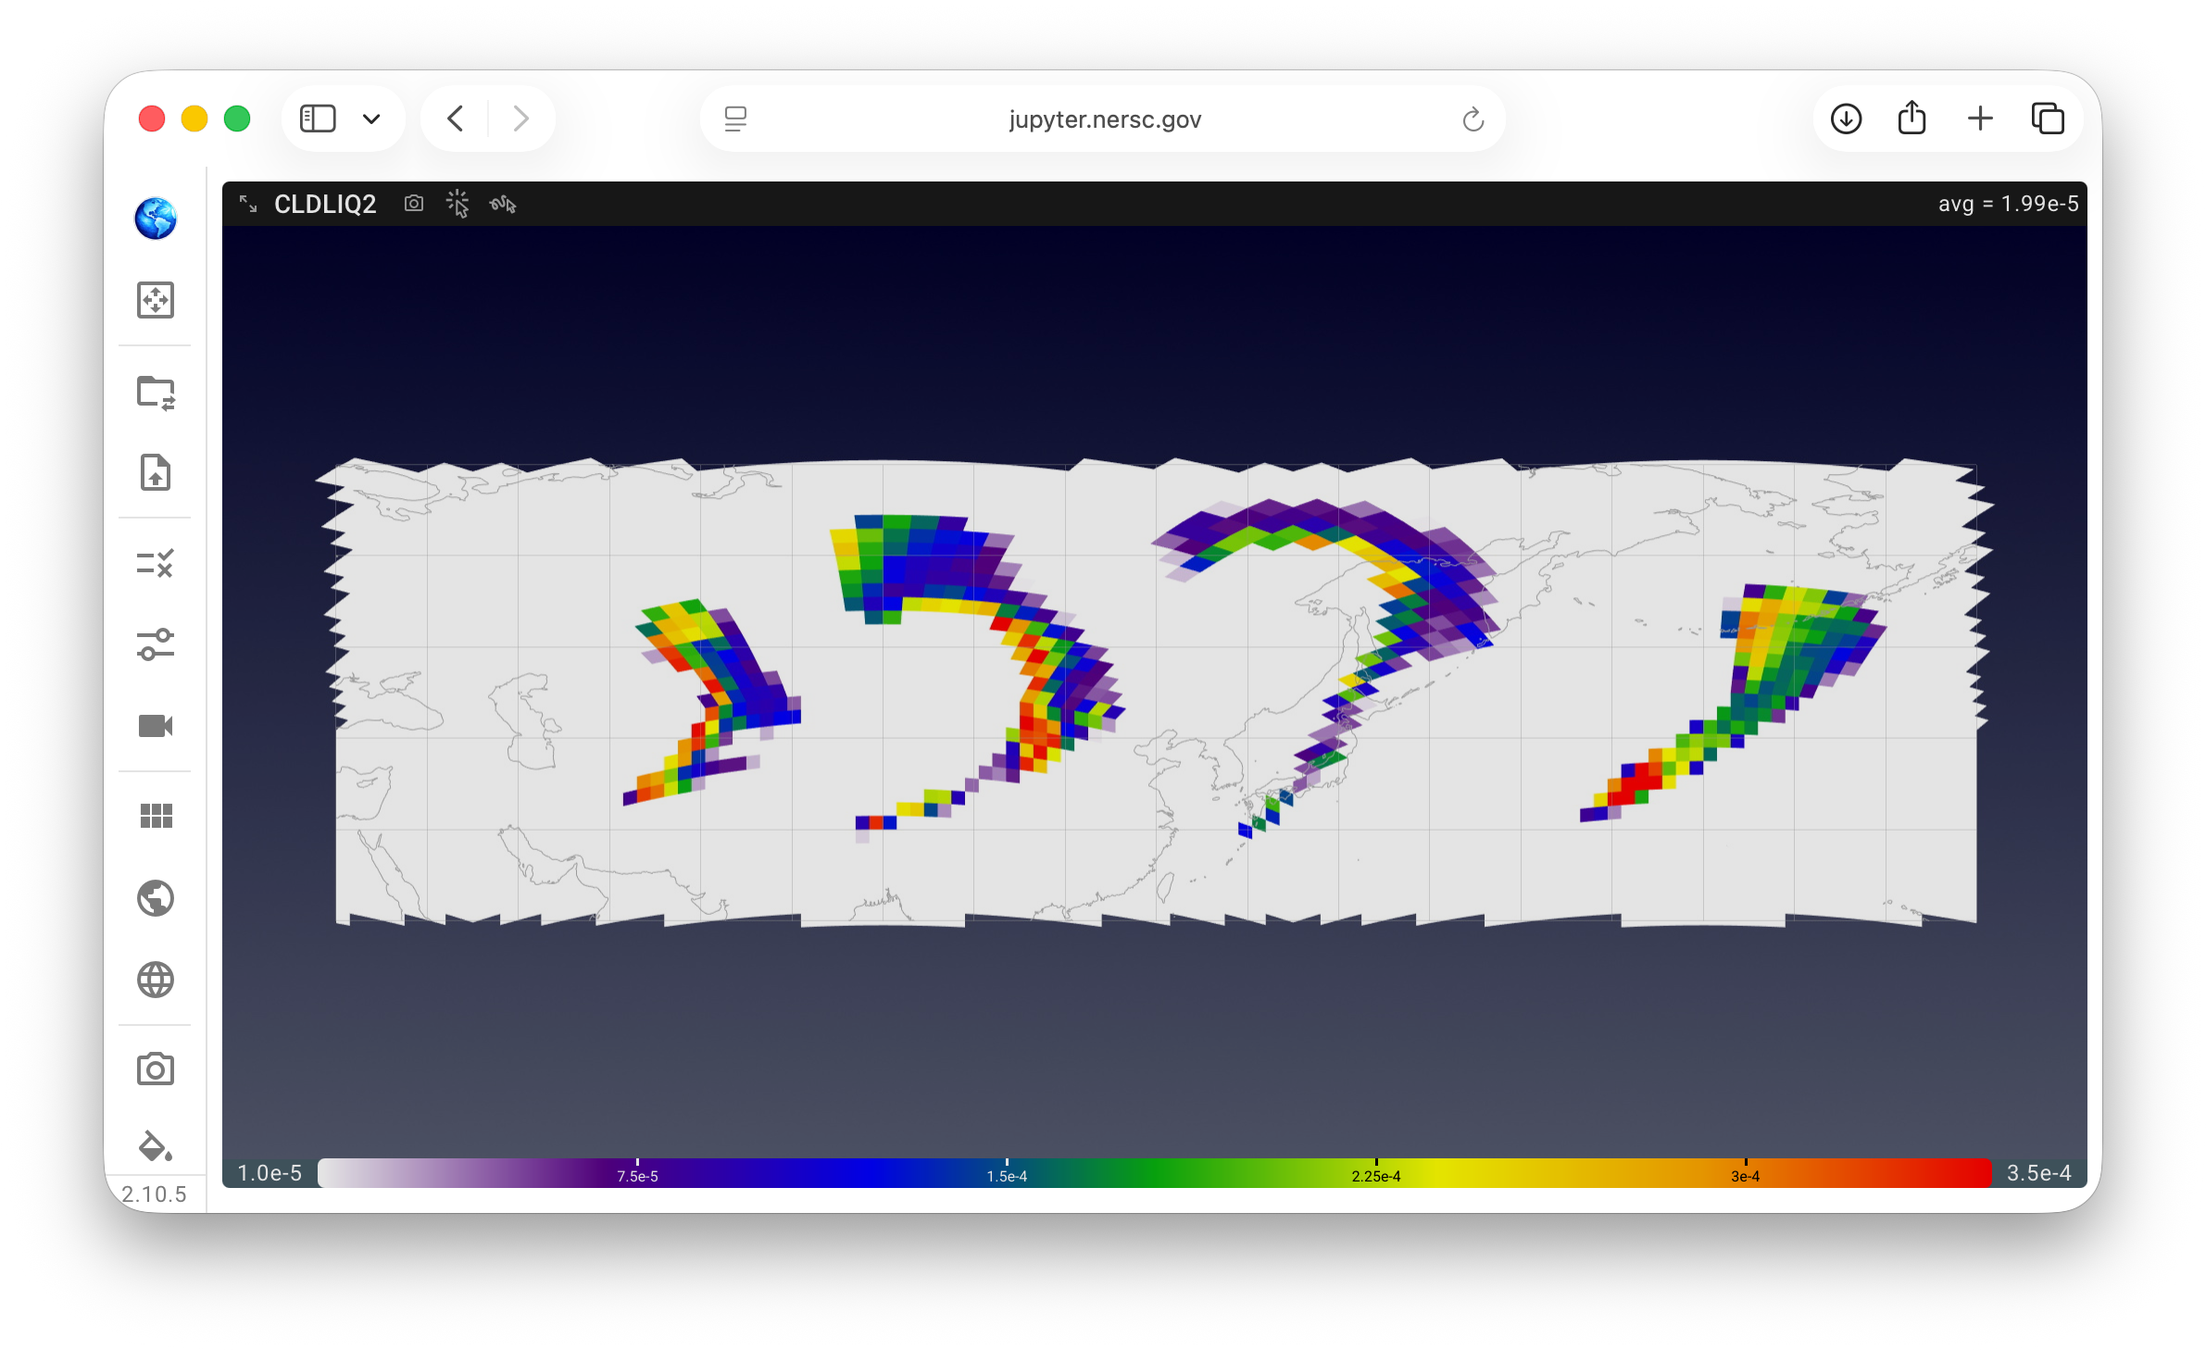
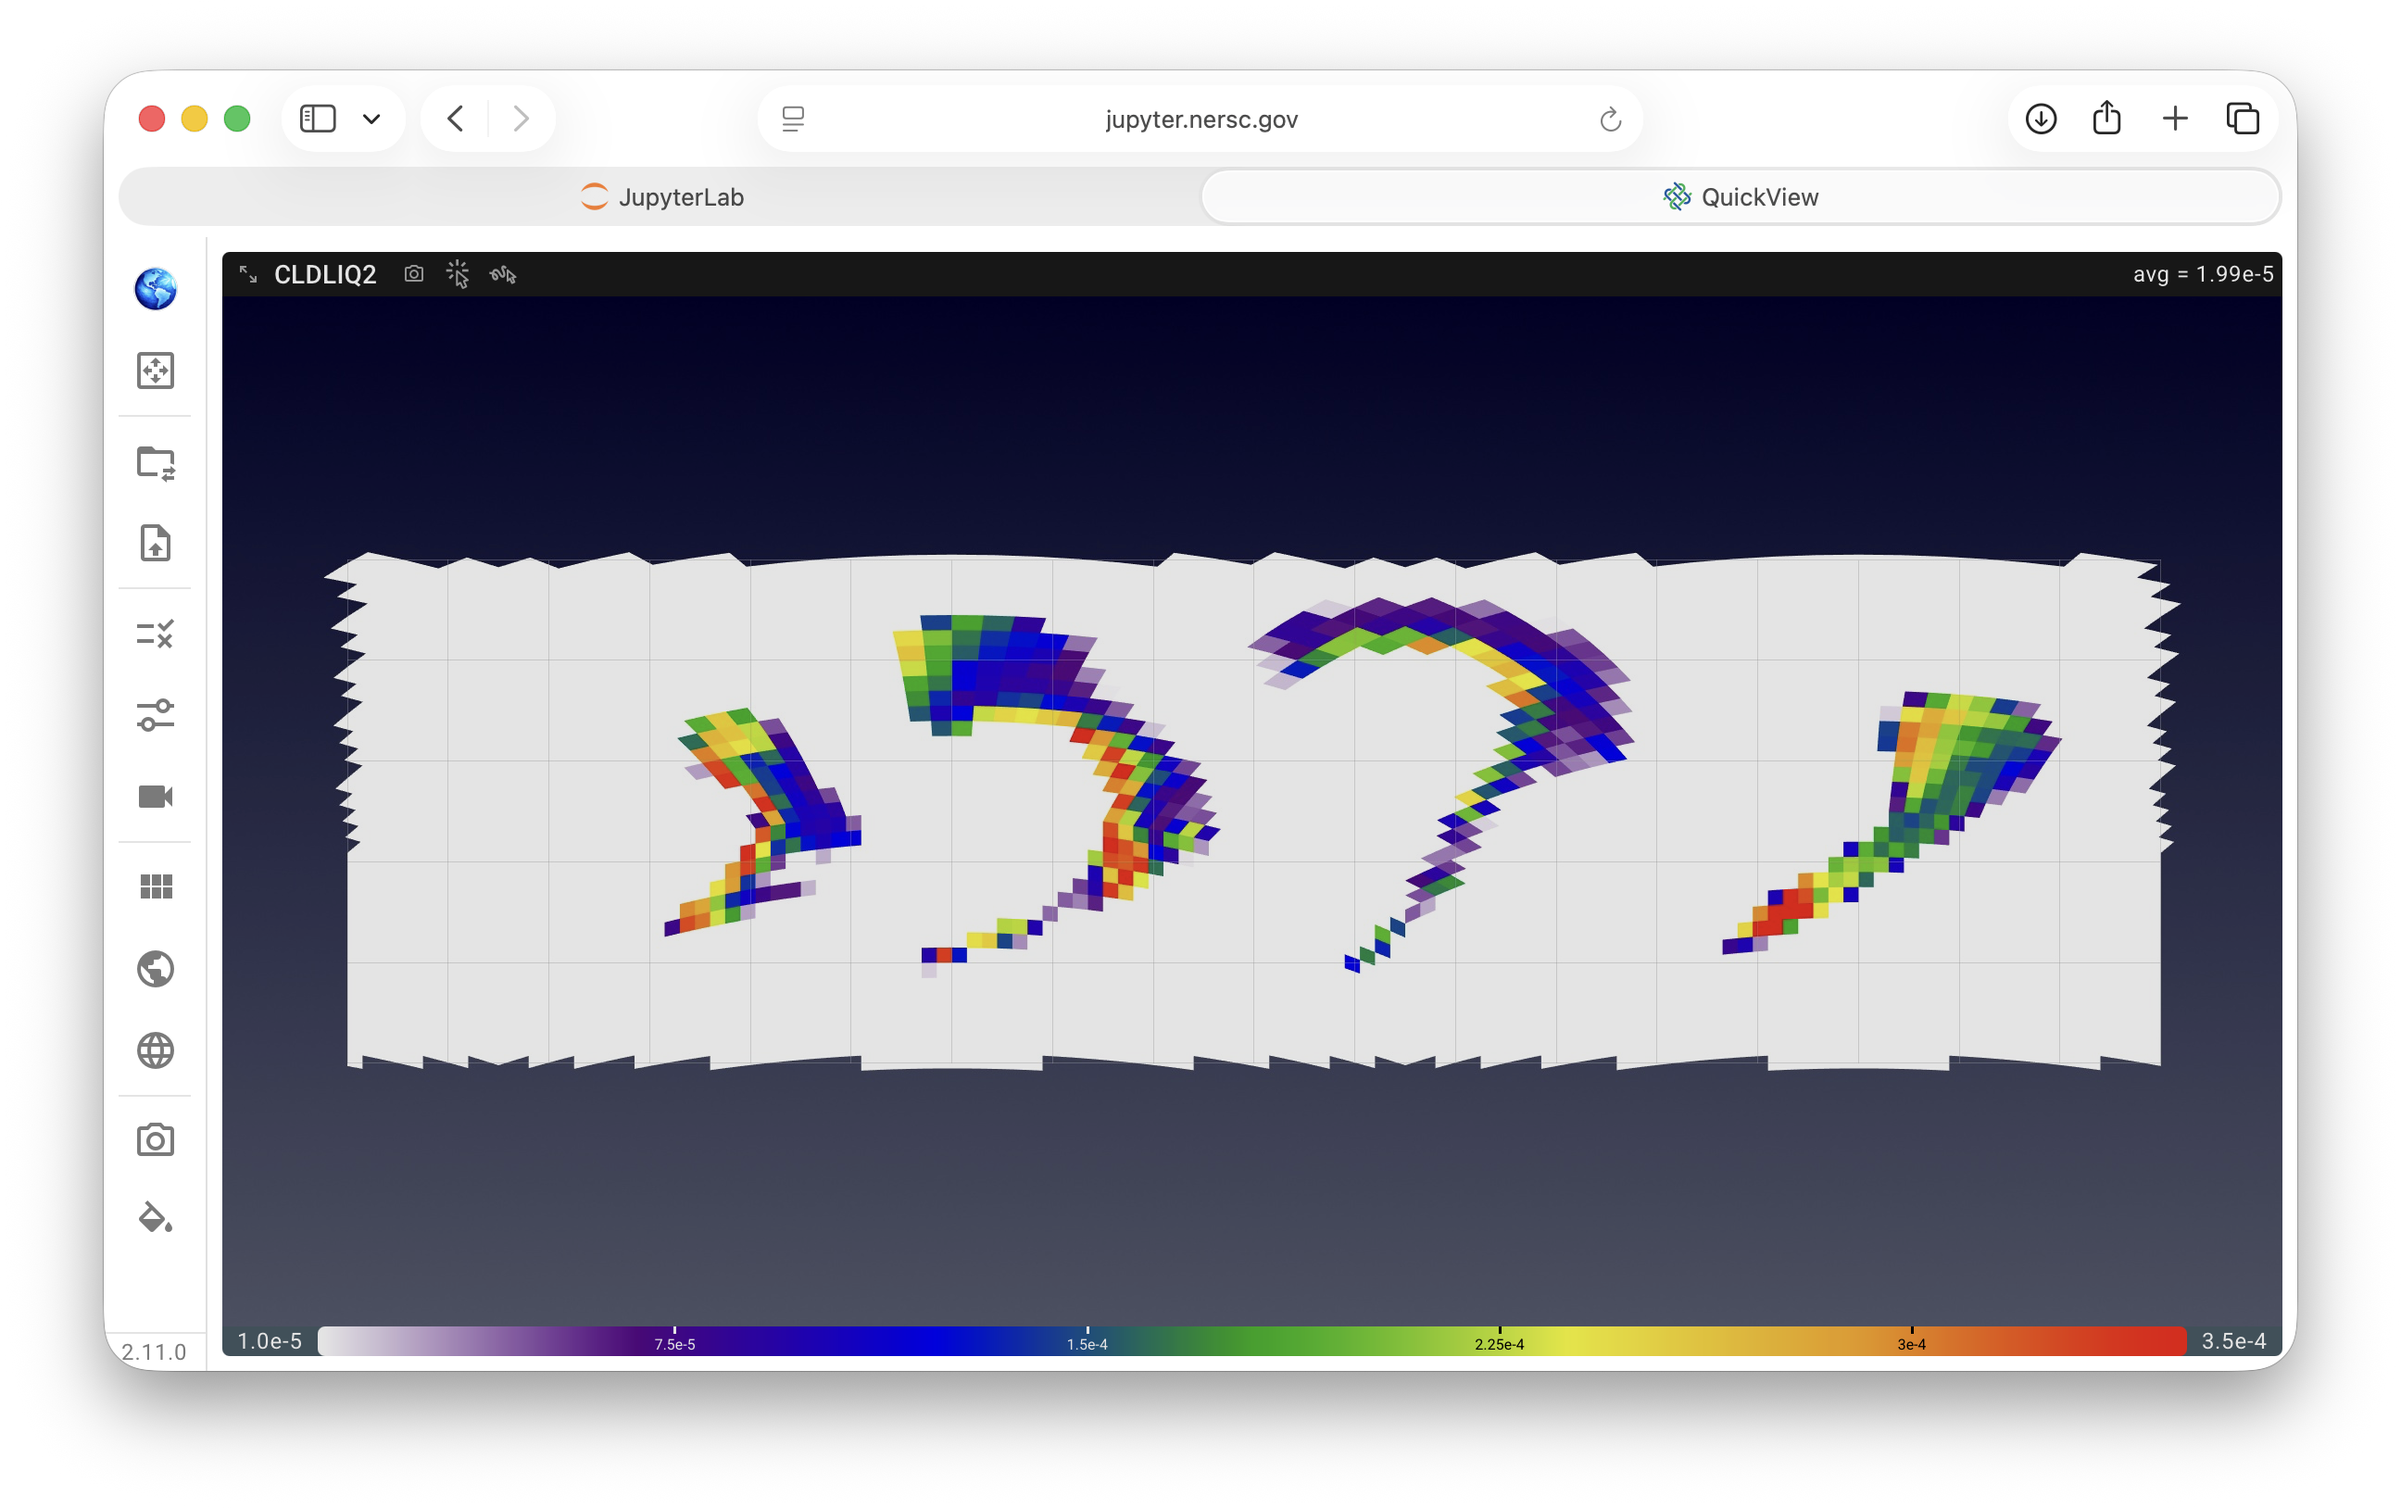
docs: webnews for QuickView 2.11.0 and QuickCompare 1.11.5 releases; updated screenshots of idealized simulations

diff --git a/docs/webnews.md b/docs/webnews.md
@@ -6,6 +6,11 @@ pageClass: news-page
 
 ## November 2026
 
+![QuickCompare icon](/public/logos/quickcompare-icon-only.png){ width="36", align=right }
+![QuickView icon](/public/logos/quickview-icon-only.png){ width="36", align=right }
+
+2026-11-16: QuickView version 2.11.0 and QuickCompare 1.11.5 were released, addressing various small feature requests and bug reports and making the two tools consistent in their [map-related capabilities](/guides/quickcompare/map_related).
+
 ![Chrysalis image from E3SM website](/public/logos/Chrysalis_w_name.jpg){ width="180", align=right }
 2026-11-03: Information was added to this website, explaining how to use our tools on E3SM's dedicated computer [Chrysalis](/hpcsystems/chrysalis/chrysalis).
 
